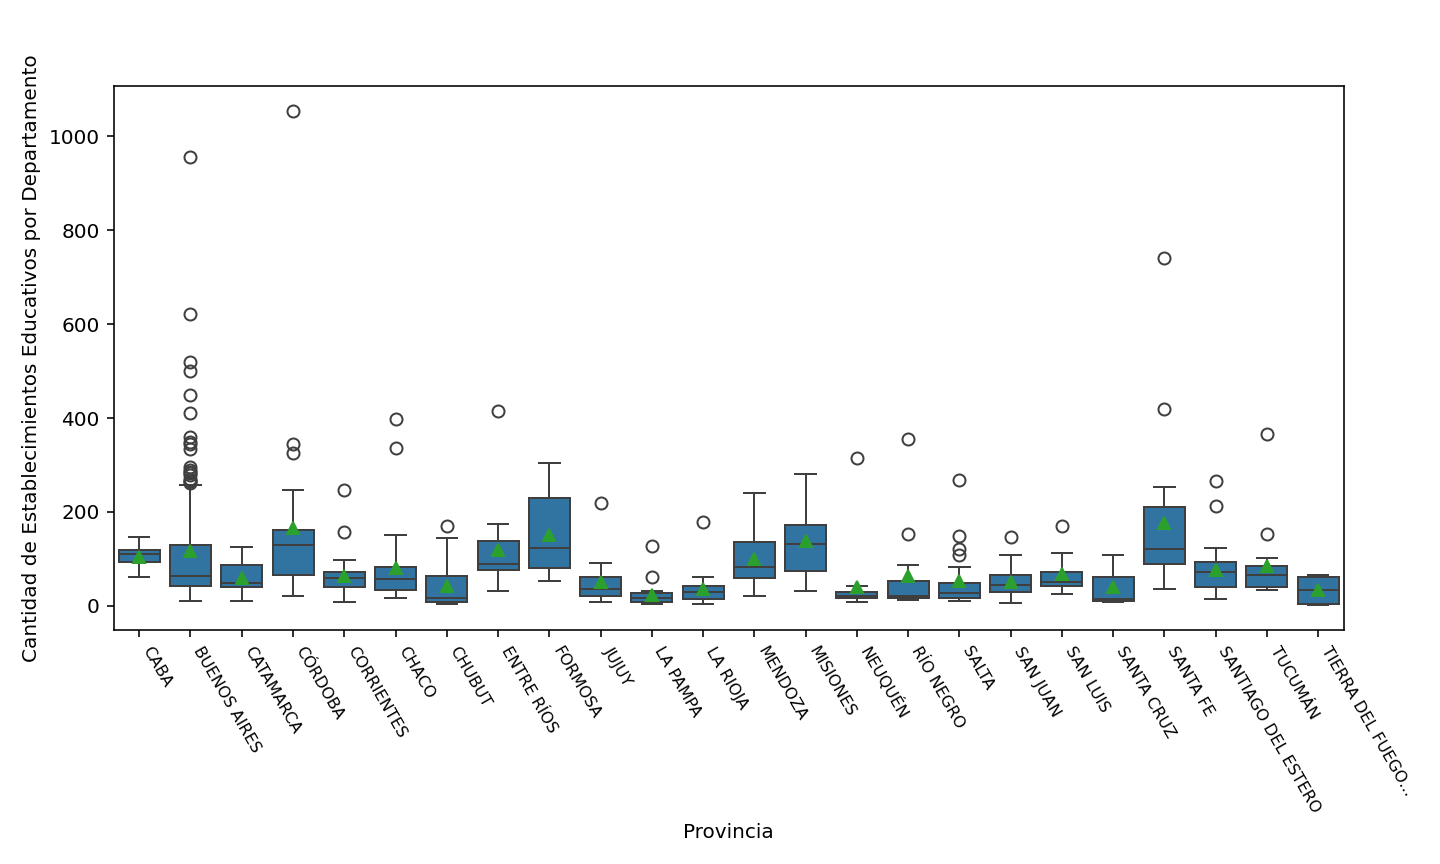
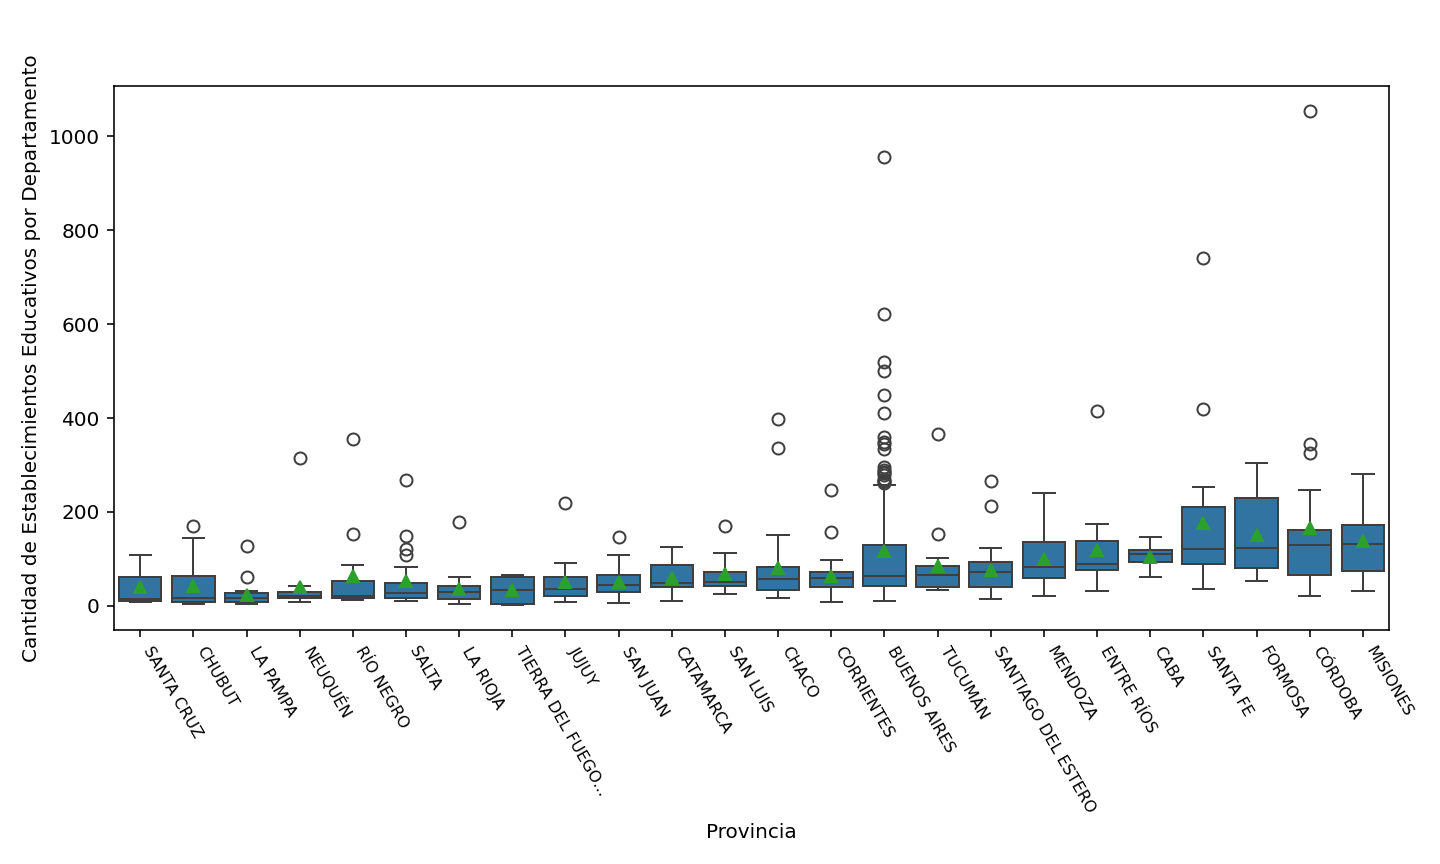
cambios

diff --git a/tp1.py b/tp1.py
@@ -12,6 +12,8 @@ import duckdb as dd
 import seaborn as sns
 import matplotlib.pyplot as plt
 import numpy as np
+from sklearn.linear_model import LinearRegression
+from sklearn.metrics import r2_score
 
 #%%   Cargamos los archivos
 
@@ -776,7 +778,32 @@ ax.legend(title="Nivel Educativo", loc="upper left")
 
 fig.savefig('ii')
 
-#%%
+#%% R2
+
+# Definimos x e y para cada nivel
+X = centros_educativos_por_departamento['total_poblacion'].values.reshape(-1, 1)
+
+Y_jardin = centros_educativos_por_departamento['total_jardin'].values
+Y_primario = centros_educativos_por_departamento['total_primario'].values
+Y_secundario = centros_educativos_por_departamento['total_secundario'].values
+
+# calculamos el r2 de cada nivel
+def calcular_r2(X, Y):
+    modelo = LinearRegression()
+    modelo.fit(X, Y)
+    return r2_score(Y, modelo.predict(X))
+
+# Calcular R^2 para cada caso
+r2_jardin = calcular_r2(X, Y_jardin)
+r2_primario = calcular_r2(X, Y_primario)
+r2_secundario = calcular_r2(X, Y_secundario)
+
+# Mostrar resultados
+print(f"R2 Jardín: {r2_jardin:.4f}")
+print(f"R2 Primario: {r2_primario:.4f}")
+print(f"R2 Secundario: {r2_secundario:.4f}")
+
+#%% Gráficos EE y Población por provincias
 
 cantidad_ee_por_provincia = dd.sql(
             """
@@ -833,11 +860,13 @@ sns.boxplot(x='Provincia',
             y='ee_por_depto',
             data=ee_por_depto_prov_comunas,
             ax=ax,
-            showmeans=True)
+            showmeans=True,
+            order = ee_por_depto_prov_comunas.groupby('Provincia')['ee_por_depto'].median().sort_values().index)
 
 ax.set_xticklabels(ax.get_xticklabels(), rotation=-60, fontsize=8, ha='left')
 
 ax.set_ylabel('Cantidad de Establecimientos Educativos por Departamento', fontsize=10)
+ax.set_title(' ')
 plt.tight_layout()
 plt.subplots_adjust(top=0.9)  
 
@@ -940,3 +969,8 @@ plt.ylabel("Proporción por 1000 habitantes")
 plt.legend(title="Tipo de Establecimiento", labels=["EE cada 1000 hab", f"CC cada 1000 hab (x{factor_escala_cc})"])
 
 fig.savefig('iv con factor escala 20 para CC')
+
+#%%
+
+
+
